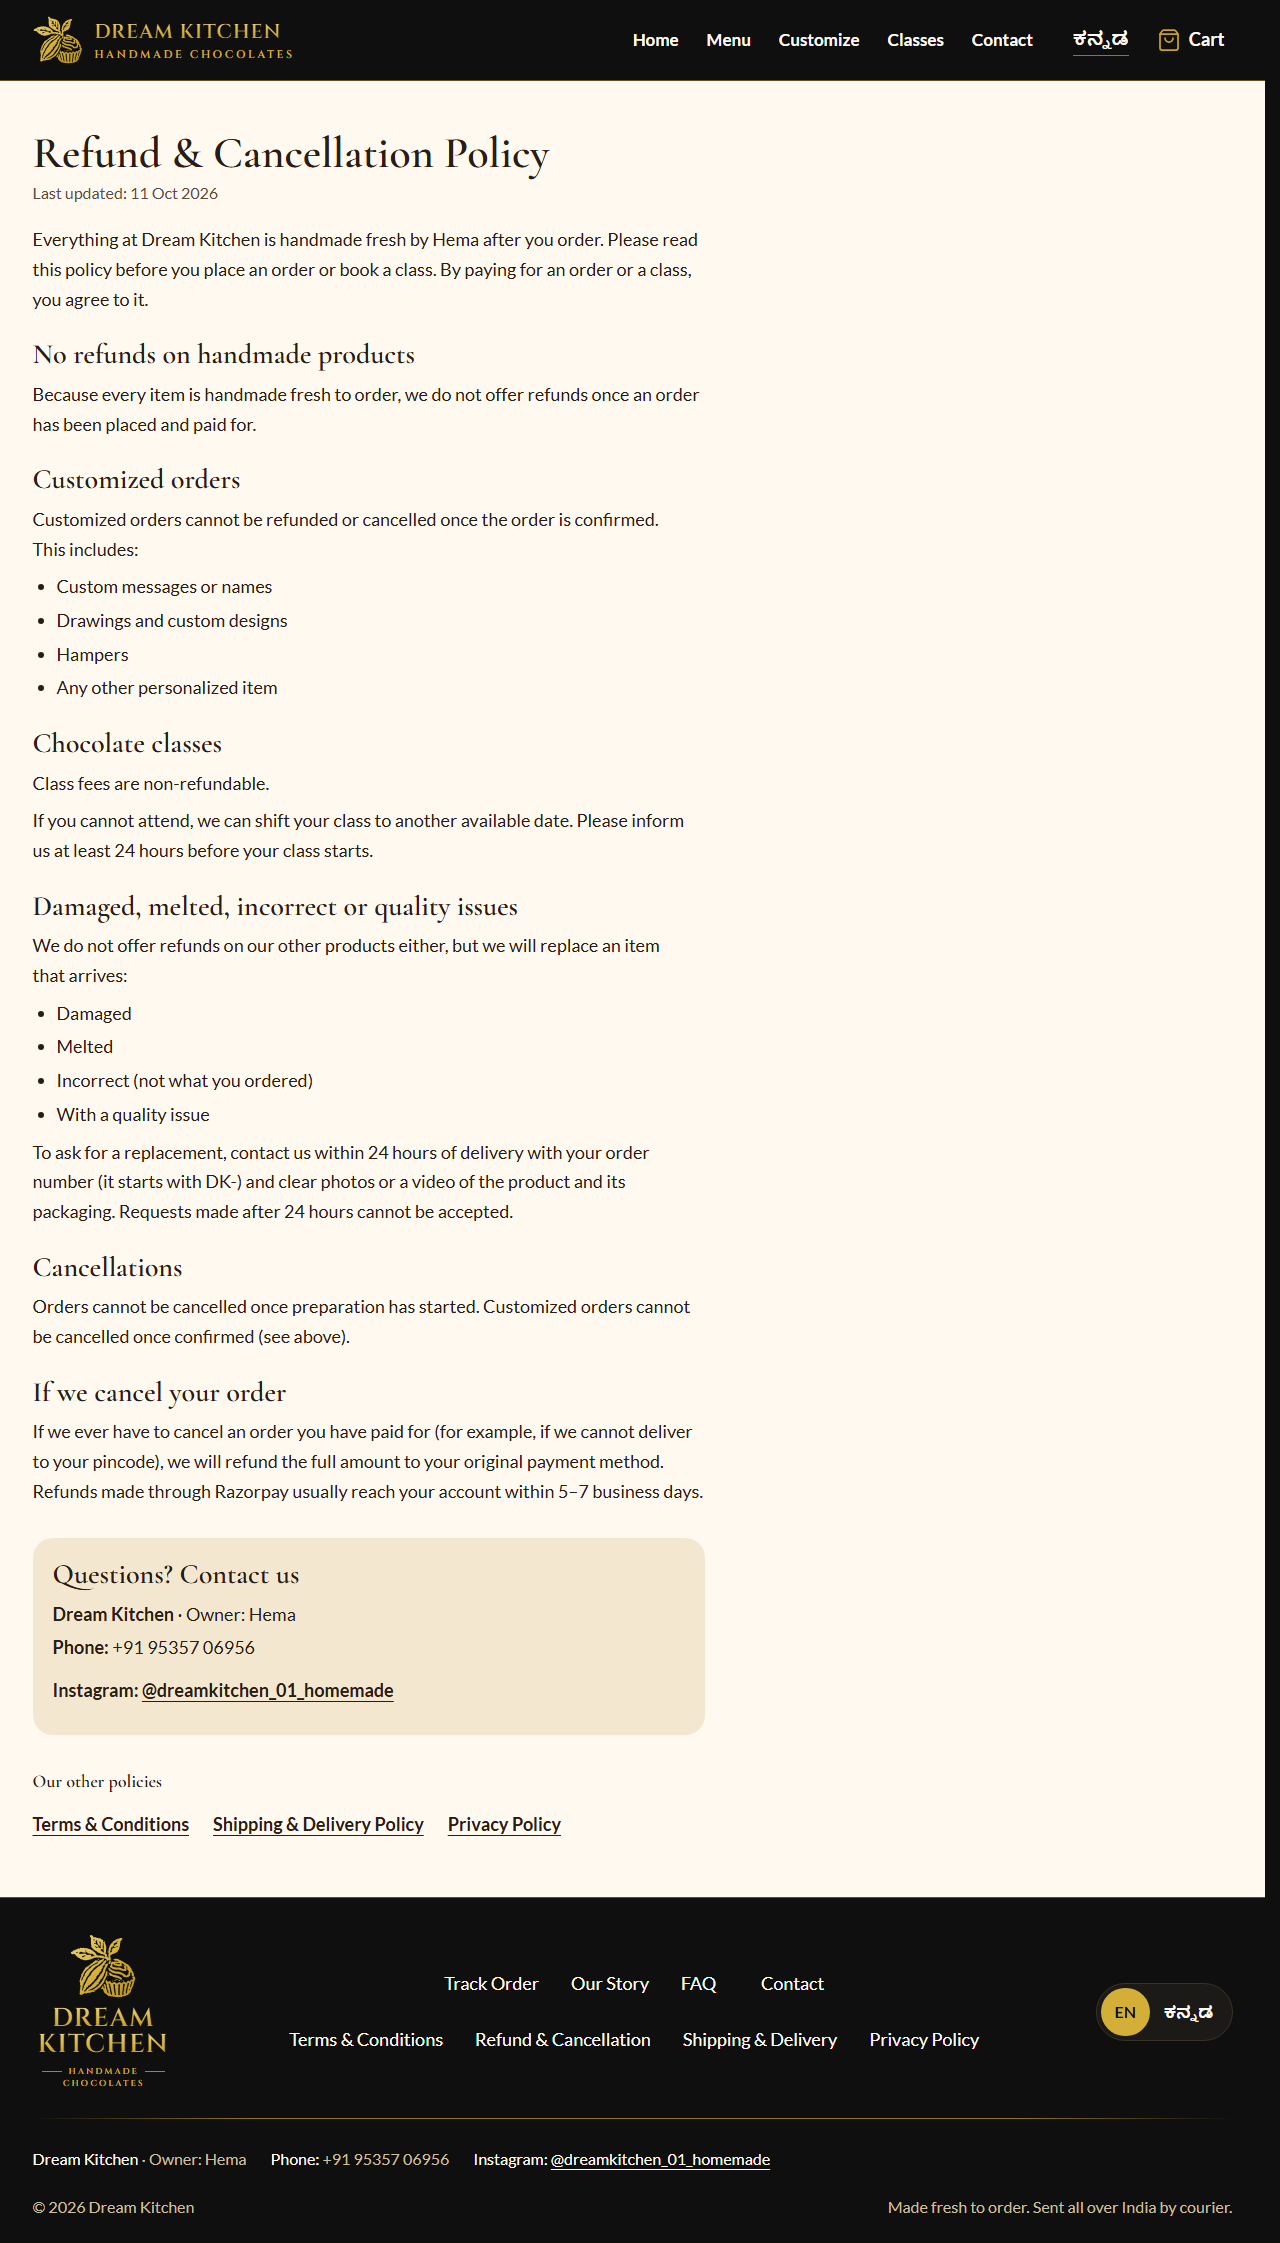
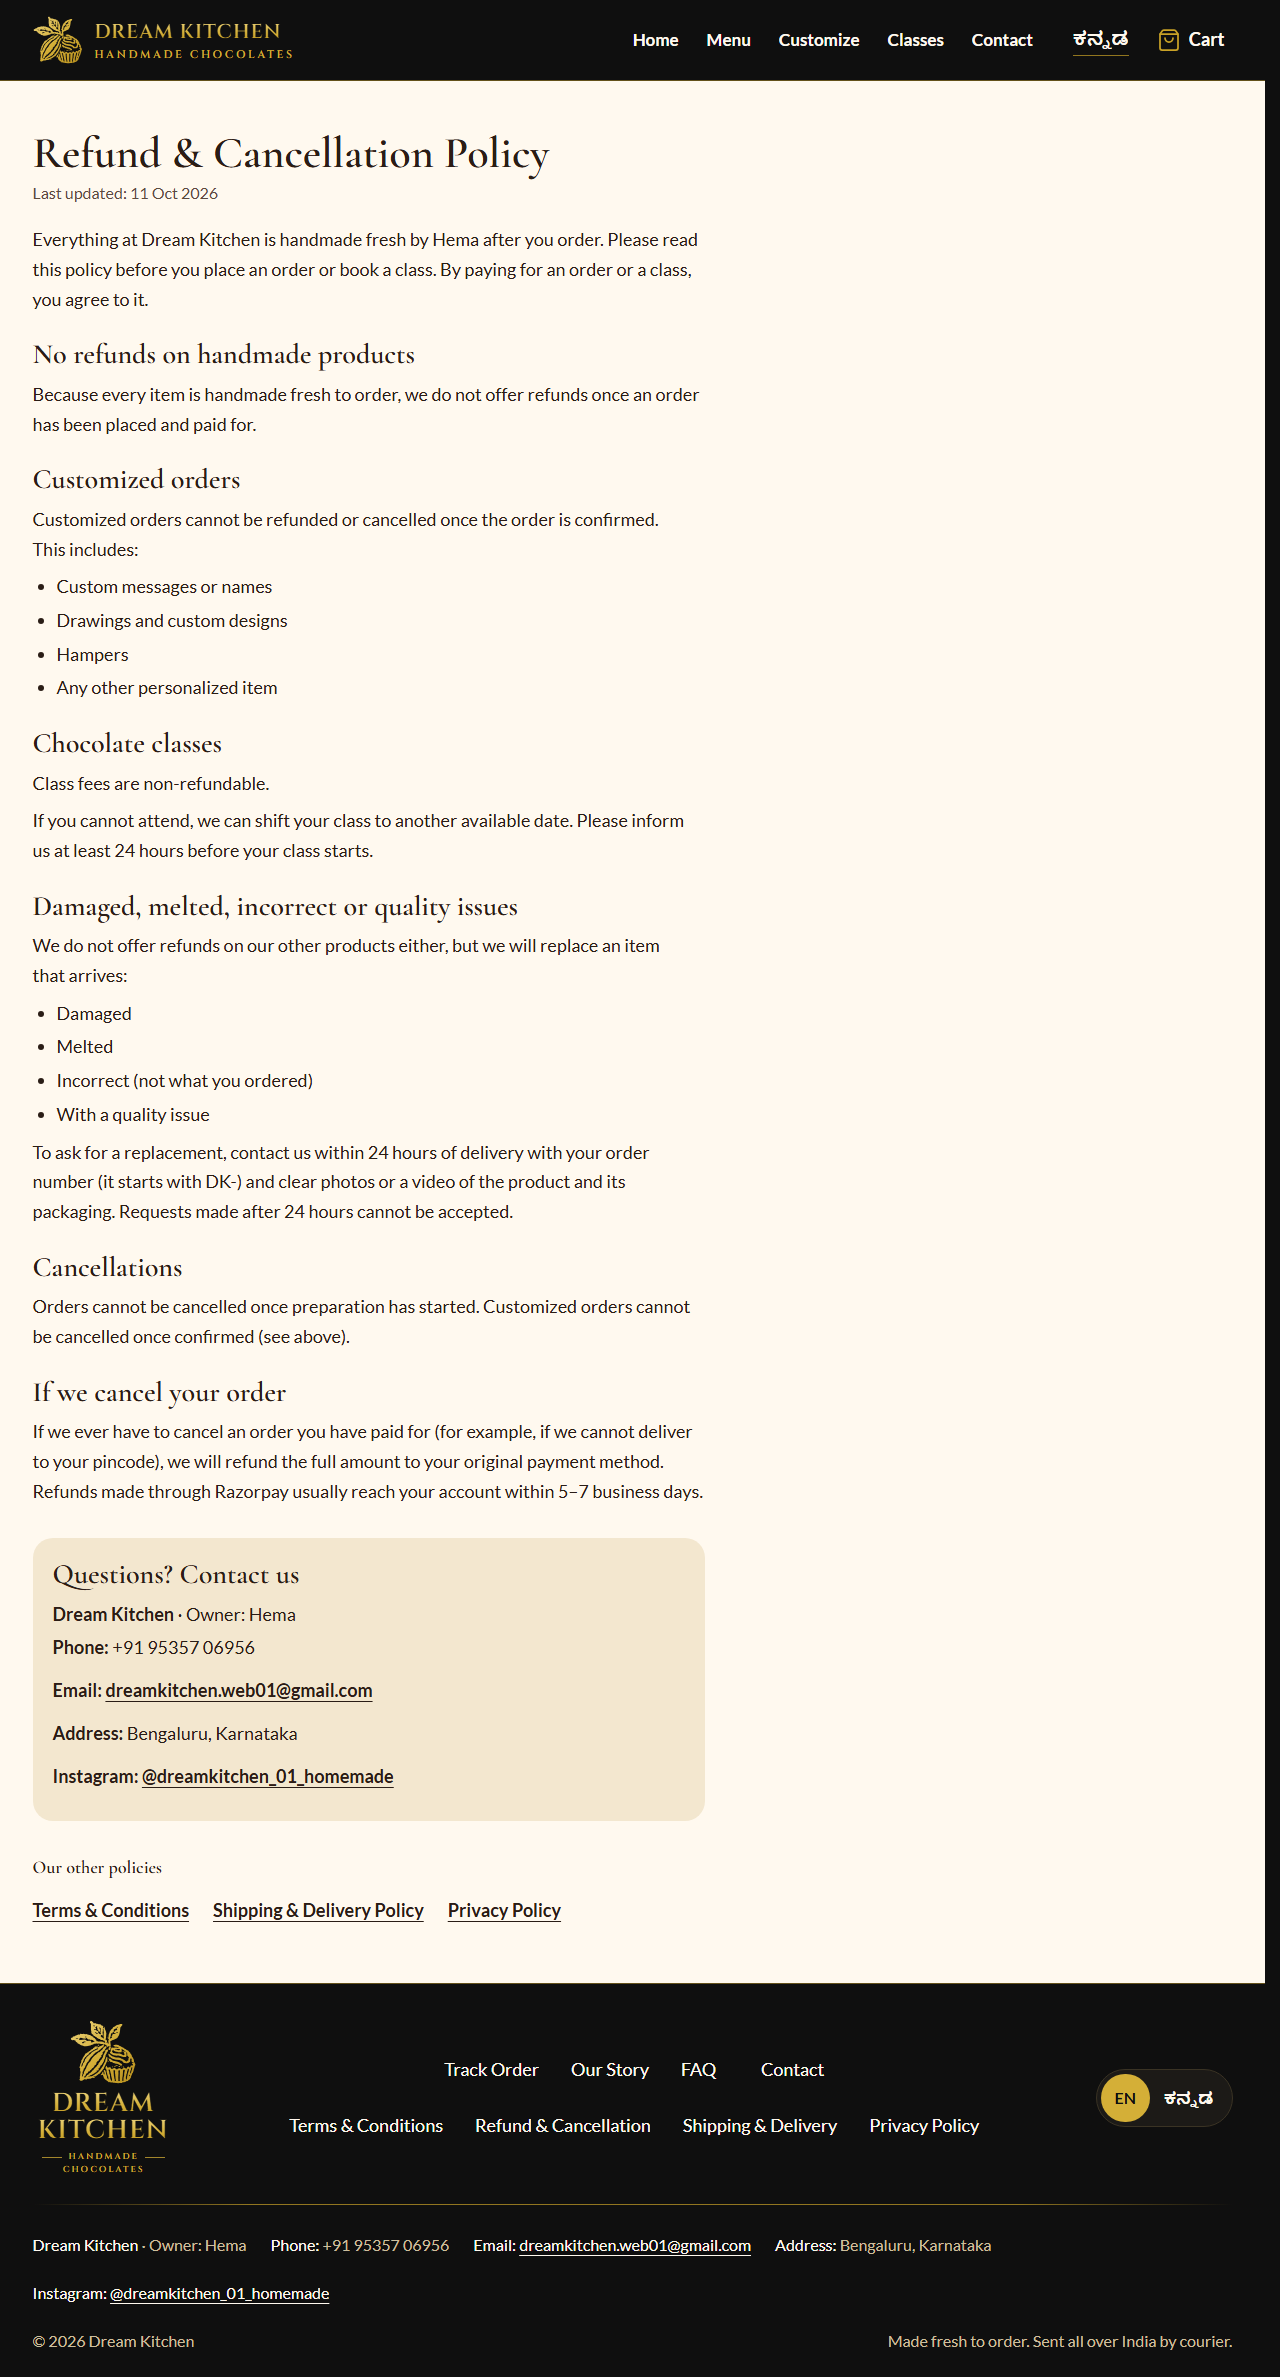
Fill in business email and city; email is the default order-alert address

diff --git a/src/config/site.js b/src/config/site.js
@@ -27,8 +27,8 @@ export const site = {
   // ---------- TODO before Razorpay verification ----------
   // Shown on Contact, in the footer and on the policy pages (/terms, /refund, /shipping, /privacy).
   // Empty = hidden (the pages still read naturally), so the site never shows a made-up value.
-  email: '', // TODO: Hema's business email, e.g. 'name@example.com'
-  address: '', // TODO: full postal address with pincode, e.g. 'House no., street, area, city, Karnataka 560000'
+  email: 'dreamkitchen.web01@gmail.com', // also the default order-alert address (netlify/lib/env.mjs)
+  address: 'Bengaluru, Karnataka', // city only, by choice: no street or pincode
   jurisdictionCity: '', // TODO: city for the "governing law" clause in the Terms, e.g. 'Bengaluru'. Empty = "the courts of India"
   deliveryTime: '', // TODO: courier time after dispatch, e.g. '3–7 business days'. Empty = "depends on your location"
   // Courier charges are NOT here: they are Hema's rates in src/config/shop.js (courier.rates), and she

diff --git a/src/admin/SettingsAdmin.jsx b/src/admin/SettingsAdmin.jsx
@@ -123,7 +123,7 @@ export default function SettingsAdmin({ onSaved }) {
         <h2 className="t-h3">Order alert emails</h2>
         <Field
           label="Send new orders, class bookings and messages to"
-          hint={s.alertEmailFromEnv && !s.alertEmail ? `Now going to ${s.alertEmailFromEnv} (set in Netlify). Type another address to change it.` : 'Use the email you signed up to Resend with (see the setup guide).'}
+          hint={s.alertEmailFromEnv && !s.alertEmail ? `Now going to ${s.alertEmailFromEnv} (the standard address). Type another address to change it.` : 'Use the email you signed up to Resend with (see the setup guide).'}
           error={err('alertEmail') && 'Please type a full email address, like name@gmail.com.'}
         >
           <input className={input} type="email" inputMode="email" autoCapitalize="none" value={s.alertEmail} onChange={set('alertEmail')} data-admin-alert-email />

diff --git a/LAUNCH.md b/LAUNCH.md
@@ -17,7 +17,8 @@ Tick each line once it is true. Lines already ticked were checked in Step 6 (see
 - [ ] 750 g courier rate (admin Settings; until then it is the 500–700 g rate)
 - [ ] Seats per class slot (admin Classes → Fees & times; empty = no limit)
 - [x] Policy pages /terms, /refund, /shipping, /privacy (text: `src/data/policies.js`; Hema reads them once before Razorpay)
-- [ ] Business email, postal address, court city and courier delivery time: the TODO lines in `src/config/site.js` (empty = hidden)
+- [x] Business email (dreamkitchen.web01@gmail.com, also the default order-alert address) and address (Bengaluru, Karnataka: city only) in `src/config/site.js`
+- [ ] Court city and courier delivery time: the TODO lines in `src/config/site.js` (empty = neutral wording)
 - [ ] Brownie Tub sizes and prices (the four old tubs show her first-menu prices and weights; the Dream Cake Tub stays off the menu until she prices it in admin → Menu)
 - [ ] Dream Cake Tub description (none yet)
 - [ ] Extra preparation days for drawings (placeholder: 2 business days, `leadTimes.drawingExtraBusinessDays` or /admin Settings)
